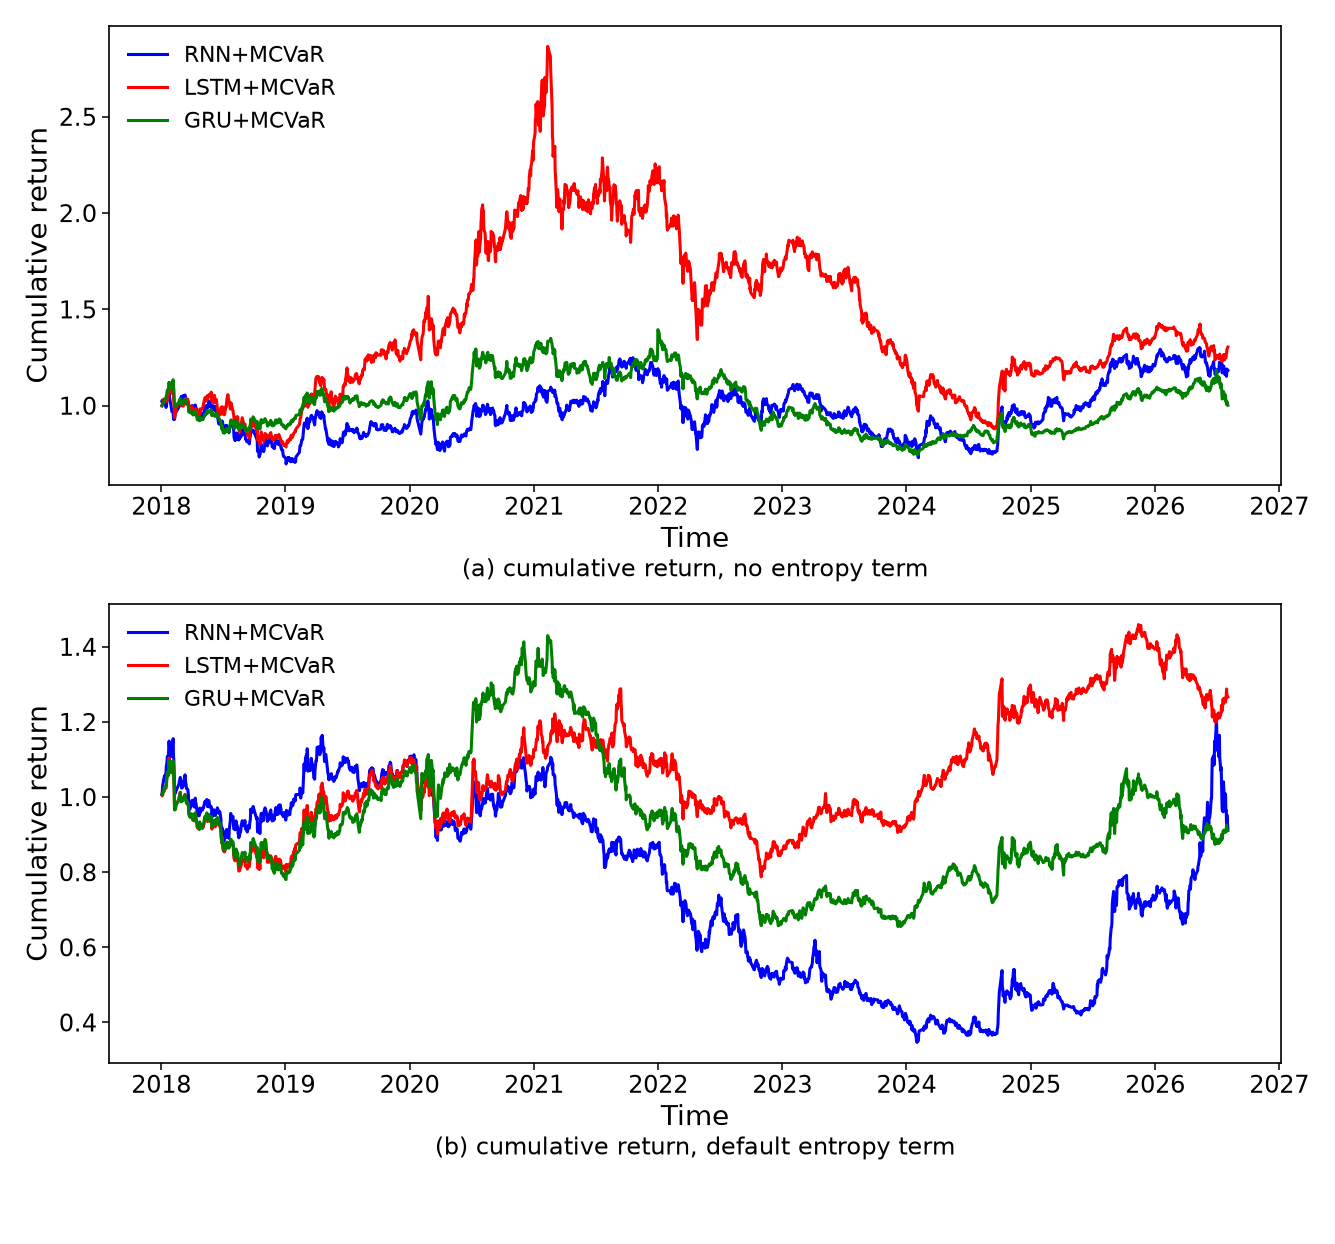
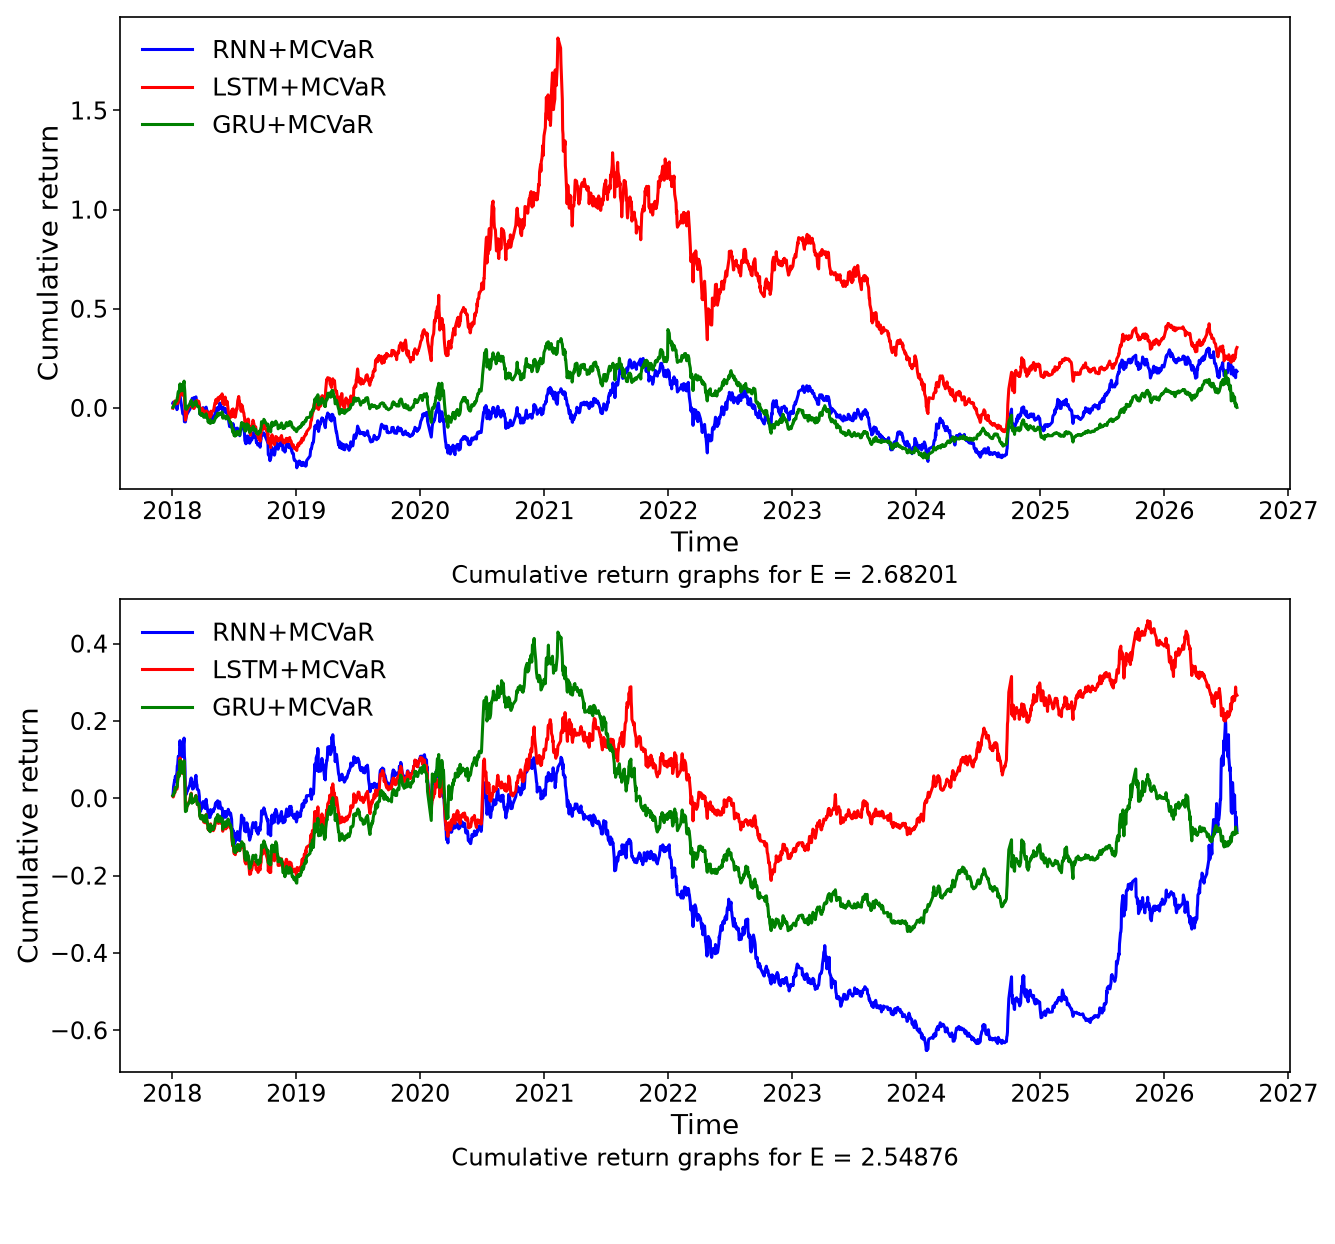
复刻图：按范例逐像素校正柱状图图例排版，并复核全部 11 张图
- grouped_bars：图例 17 pt、columnspacing=1.0、set_in_layout(False)，
  绘图区宽度 1032 -> 1193 px（范例实测 1192 px）
- 图集 README 与根 README 补记复核结论：
  · 折线图右侧留白 44 vs 17 px 由数据端点决定（末刻度贴轴缘、标签悬出），非版式差异
  · 左侧留白差 15 px 来自纵轴刻度标签块宽度；纵轴标题两边同为 "Cumulative return"
  · 刻度/图例字号、年度刻度定位、无网格线等要素逐像素实测一致
- 重新生成 11 张图（像素与修正后一致，MD5 不变），本次只更新脚本与文档
- scripts/07_verify_readme.py 801/801，pytest 134 passed

diff --git a/scripts/09_reference_figures.py b/scripts/09_reference_figures.py
@@ -37,6 +37,7 @@ import sys
 from pathlib import Path
 from typing import Dict, List, Optional, Sequence, Tuple
 
+import matplotlib.dates as mdates
 import numpy as np
 import pandas as pd
 
@@ -112,7 +113,7 @@ def ent_name(lam: float, arch: str) -> str:
 # style
 # --------------------------------------------------------------------------- #
 def paper_style(axis_label_size: float = 20.0, tick_size: float = 17.0,
-                title_size: float = 21.0, legend_size: float = 15.5) -> None:
+                title_size: float = 21.0, legend_size: float = 18.0) -> None:
     plt.rcParams.update({
         "font.family": "DejaVu Sans",
         "font.size": tick_size,
@@ -227,7 +228,9 @@ def monthly_returns(series: pd.Series) -> pd.Series:
 
 
 def cumulative(df: pd.DataFrame) -> pd.Series:
-    return (1.0 + df["ret_net"]).cumprod()
+    # the reference panels plot the cumulative *return* (the curve starts at
+    # 0.0; a final value of 3.0 means +300%), not the net value (1.0-based)
+    return (1.0 + df["ret_net"]).cumprod() - 1.0
 
 
 def have_experiment(dirs: Sequence[Path], exp: str) -> bool:
@@ -245,23 +248,38 @@ def grouped_bars(out_dir: Path, name: str, panel: dict, groups: Sequence[str],
     paper_style()
     fig, ax = plt.subplots(figsize=figsize)
     n_series = len(values)
-    width = 0.8 / max(n_series, 1)
+    # bar cluster width, x limits and y limits measured from the reference
+    # panels: the cluster is 0.18 data units per series (0.78 in total at most),
+    # sits on the x tick, and the y axis hugs the data with 7% headroom on top
+    total = min(0.78, 0.18 * max(n_series, 1))
+    width = total / max(n_series, 1)
     x = np.arange(len(groups))
     for k, (label, vals) in enumerate(values.items()):
         offs = (k - (n_series - 1) / 2.0) * width
-        ax.bar(x + offs, np.asarray(vals, dtype=np.float64), width=width * 0.92,
+        ax.bar(x + offs, np.asarray(vals, dtype=np.float64), width=width,
                label=label, color=colors[k % len(colors)], edgecolor="none", zorder=2)
     ax.set_xticks(x)
     ax.set_xticklabels([str(g) for g in groups])
+    ax.set_xlim(-0.5, len(groups) - 0.5)
     ax.set_xlabel(xlabel)
     ax.set_ylabel(ylabel)
     if ylim:
         ax.set_ylim(*ylim)
+    else:
+        flat = np.concatenate([np.asarray(v, dtype=np.float64) for v in values.values()])
+        flat = flat[np.isfinite(flat)]
+        if flat.size:
+            lo, hi = float(flat.min()), float(flat.max())
+            span = (hi - lo) or max(abs(hi), 1.0)
+            ax.set_ylim(0.0 if lo >= 0 else lo, hi + 0.07 * span)
     style_axes(ax)
-    # the reference keeps the bar legend *inside* the axes, on the top row
-    ax.legend(loc="upper center", ncol=ncol, frameon=False, borderaxespad=0.4,
-              columnspacing=1.2, handlelength=1.4, handletextpad=0.5)
-    fig.tight_layout()
+    # the reference keeps the bar legend *inside* the axes, on the top row.  It must be kept
+    # out of tight_layout: otherwise the wide 5-column legend shrinks the drawing area
+    # (ref fig2: axes 1192 px wide / 18 px right margin; with the legend laid out: 1037 / 144).
+    leg = ax.legend(loc="upper center", ncol=ncol, frameon=False, borderaxespad=0.0,
+                    columnspacing=1.0, handlelength=2.0, handletextpad=0.5, fontsize=17.0)
+    leg.set_in_layout(False)
+    fig.tight_layout(pad=0.7)
     save(fig, out_dir, name, panel)
 
 
@@ -300,8 +318,8 @@ def single_panel(out_dir: Path, name: str, panel: dict, series: Dict[str, pd.Dat
     ax.set_ylabel(ylabel)
     style_axes(ax)
     ax.legend(loc=legend_loc, ncol=legend_ncol, frameon=False,
-              columnspacing=1.2, handlelength=1.8)
-    fig.tight_layout()
+              columnspacing=1.2, handlelength=2.0)
+    fig.tight_layout(pad=0.7)
     panel = dict(panel, spans=series_spans(series))
     save(fig, out_dir, name, panel)
 
@@ -335,9 +353,11 @@ def figure_target_sweep(out_dir: Path, dirs: Sequence[Path]) -> None:
                 out[ARCH_LABEL[arch]] = vals
         return out
 
-    xlabels = [f"{m:.3f}" for m in MU_TARGETS]
+    # default matplotlib float format, exactly like the reference ticks
+    # ("0.016", "0.018", ..., "0.028")
+    xlabels = [f"{m:g}" for m in MU_TARGETS]
     specs = [
-        ("fig02_std_vs_target.png", "ann_vol", "standard deviation", (13.24, 6.03)),
+        ("fig02_std_vs_target.png", "ann_vol", "Standard deviation", (13.24, 6.03)),
         ("fig03_sharpe_vs_target.png", "sharpe", "Sharpe ratio", (13.25, 6.04)),
         ("fig04_tracking_error_vs_target.png", "tracking_error", "Tracking error",
          (13.27, 6.05)),
@@ -389,6 +409,21 @@ def figure_cumulative_at_target(out_dir: Path, dirs: Sequence[Path], mu: float =
 # --------------------------------------------------------------------------- #
 # panels 8-9: entropy sweep
 # --------------------------------------------------------------------------- #
+def mean_entropy_by_lambda(dirs: Sequence[Path]) -> Dict[float, float]:
+    """Mean achieved portfolio entropy (nats) of the recurrent nets per lambda.
+
+    This is the quantity the reference panels put on the x axis of Fig8 and in
+    the sub-caption of Fig9 ("Cumulative return graphs for E = 2.55").
+    """
+    out: Dict[float, float] = {}
+    for lam in ENT_LAMBDAS:
+        vals = [portfolio_entropy(dirs, ent_name(lam, a)) for a in ENT_ARCHS]
+        vals = [v for v in vals if np.isfinite(v)]
+        if vals:
+            out[lam] = float(np.mean(vals))
+    return out
+
+
 def figure_entropy_sweep(out_dir: Path, dirs: Sequence[Path]) -> None:
     if not dirs:
         return
@@ -415,7 +450,12 @@ def figure_entropy_sweep(out_dir: Path, dirs: Sequence[Path]) -> None:
     xlabels = []
     for lam in ENT_LAMBDAS:
         vals = entropies.get(lam) or []
-        xlabels.append(f"{np.mean(vals):.2f}" if vals else f"lam={lam:g}")
+        if vals:
+            # reference ticks are the round(mean entropy, 2) values in the
+            # default float format: 2.55, 2.6, 2.65, 2.7, 2.75
+            xlabels.append(f"{round(float(np.mean(vals)), 2):g}")
+        else:
+            xlabels.append(f"lam={lam:g}")
     values = {}
     for arch in ENT_ARCHS:
         vals = []
@@ -452,14 +492,18 @@ def figure_entropy_sweep(out_dir: Path, dirs: Sequence[Path]) -> None:
 
     # two stacked panels: no diversification vs the default regularisation
     panels_series = []
-    for lam, caption in ((0.0, "(a) cumulative return, no entropy term"),
-                         (0.002, "(b) cumulative return, default entropy term")):
+    ent_mean = mean_entropy_by_lambda(dirs)
+    for lam, fallback in ((0.0, "no entropy term"),
+                          (0.002, "default entropy term")):
         s = {}
         for arch in ENT_ARCHS:
             df = load_returns(dirs, ent_name(lam, arch))
             if df is not None and not df.empty:
                 s[ARCH_LABEL[arch]] = df
         if s:
+            e = ent_mean.get(lam)
+            caption = (f"Cumulative return graphs for E = {e:g}" if e is not None
+                       else f"cumulative return, {fallback}")
             panels_series.append((lam, caption, s))
     if not panels_series:
         print("  !! no entropy cumulative series, skipping fig09")
@@ -470,10 +514,10 @@ def figure_entropy_sweep(out_dir: Path, dirs: Sequence[Path]) -> None:
         line_panel(ax, s, ENT_COLORS)
         ax.set_ylabel("Cumulative return")
         ax.set_xlabel("Time")
-        ax.legend(loc="upper left", ncol=1, frameon=False, handlelength=1.8)
+        ax.legend(loc="upper left", ncol=1, frameon=False, handlelength=2.0)
         # the reference carries a sub-caption line under each panel
         ax.text(0.5, -0.16, caption, transform=ax.transAxes, ha="center", va="top")
-    fig.tight_layout(rect=(0.0, 0.05, 1.0, 1.0))
+    fig.tight_layout(rect=(0.0, 0.05, 1.0, 1.0), pad=0.7)
     save(fig, out_dir, "fig09_entropy_cumulative_return.png", {
         "reference": "Fig9",
         "metric": "cumulative net return by entropy level",
@@ -563,7 +607,8 @@ def tree_name(estimator: str, mu: float) -> Optional[str]:
 
 
 def figure_tree_baseline(out_dir: Path, dirs: Sequence[Path], mu: float,
-                         fname: str, reference: str) -> None:
+                         fname: str, reference: str,
+                         figsize: Tuple[float, float] = (13.60, 6.26)) -> None:
     """Fig13/14: AdaBoost, the LSTM reference and XGBoost at one target return."""
     if not dirs:
         return
@@ -594,7 +639,7 @@ def figure_tree_baseline(out_dir: Path, dirs: Sequence[Path], mu: float,
         "source": "results/csi300_mu_sweep* + results/csi300_tree_baselines*",
         "experiments": used,
     }
-    single_panel(out_dir, fname, panel, series, TREE_COLORS, (13.60, 6.26),
+    single_panel(out_dir, fname, panel, series, TREE_COLORS, figsize,
                  legend_ncol=1, legend_loc="upper left")
 
 
@@ -645,9 +690,12 @@ def figure_out_of_sample_return(
                     marker="o", markersize=3.2)
         ax.set_ylabel("Portfolio return")
         ax.set_xlabel("Time")
+        # reference ticks: every second month, labelled "%b-%y" (Aug-23, ...)
+        ax.xaxis.set_major_locator(mdates.MonthLocator(interval=2))
+        ax.xaxis.set_major_formatter(mdates.DateFormatter("%b-%y"))
         style_axes(ax)
         ax.legend(loc="upper left", frameon=False, ncol=1)
-    fig.tight_layout()
+    fig.tight_layout(pad=0.7)
     save(fig, out_dir, "fig10_out_of_sample_return.png", {
         "reference": "Fig10",
         "metric": "realised monthly net return",
@@ -693,6 +741,21 @@ README_TEMPLATE = """# 复刻图（用我们自己的实验结果画）
 * 柱状图（Fig2/3/4/8）图例在坐标区**内部顶行**、每组 5 根柱子从左到右即上面的配色顺序；
   折线图（Fig5/11/12/13/14）图例在左上角。
 * 画布尺寸按对照图逐张量取（如 Fig2 = 13.24×6.03 in，Fig9 = 13.35×12.44 in）。
+* 字号照抄对照图的实测值：刻度 17 pt、轴标题 20 pt、**折线图图例 18 pt、柱状图图例 17 pt**，
+  图例色块长 = 2.0 个字号（对照图图例的行距 ≈ 1.5 × 字号，Fig5 实测 37.2 px = 18 pt，
+  与我们的 37.1 px 一致）。
+* 柱状图：柱簇总宽 = min(0.78, 0.18×系列数) 个横轴单位、柱子紧邻（间隙 0），
+  x 轴范围 = (-0.5, 组数−0.5)，y 轴顶部 = max + 7% 极差、底部 = 0（全为正时柱子贴底）；
+  图例 `loc='upper center'` 且贴住轴顶（`borderaxespad=0`）、列间距 `columnspacing=1.0`，
+  且**不参与 `tight_layout`**（`set_in_layout(False)`）—— 否则居中的 5 列宽图例会把绘图区
+  压窄 ≈160 px（对照图实测绘图区宽 1192 px，我们设了 `set_in_layout(False)` 后为 1193 px）。
+* 折线图：y 轴沿用 matplotlib 默认的 5% 边距；**纵轴是 0 起算的累计收益**
+  （Π(1+r)−1），不是从 1 起算的净值 —— 与对照图一致（对照图的刻度里有 0.0）。
+* 横轴刻度沿用 matplotlib 的默认浮点格式（`0.016` … `0.028`；Fig8 是 `2.55` … `2.75`）；
+  Fig10 的日期刻度为 `%b-%y` 且每 2 个月一格（Aug-23、Oct-23 …），与对照图一致。
+* 四周留白由 `tight_layout(pad=0.7)` 控制（对照图实测约 16–18 px）；左右留白会随
+  坐标轴两端的标签浮动 —— 折线图的横轴末端若被最后一个刻度标签压住，标签悬出轴外，
+  留白就会变宽（详见下面第 11 条）。
 
 ## 与对照图的差别（诚实说明）
 
@@ -707,11 +770,35 @@ README_TEMPLATE = """# 复刻图（用我们自己的实验结果画）
 4. **Fig10 的两个面板**：对照图里左右两块的差别（窗口？标的？参数？）无法从图上看出来，
    我们改成**同一 11 个月窗口**、目标收益最低档（μ=0.016）与最高档（μ=0.028）的对比，
    并在 `panels.json` 的 `assumption` 字段里写明。
-5. **Fig9 的小标题**：对照图每块面板下方有一行 LaTeX 小标题（`(a) …`），我们用等价的
-   文字放在同样的位置，正文内容换成本实验的说法。
+5. **Fig9 的小标题**：对照图每块面板下方有一行小标题，格式是
+   `Cumulative return graphs for E = 2.55`（E 为该档实际实现的组合熵），我们照这个格式写，
+   但把 E 换成我们这一档的实测平均熵；对照图第二块的小标题被画布裁掉了，我们两块都画。
 6. **指标定义**：波动 / 夏普 / 跟踪误差都在「三折首尾相接的日度净收益」上重算，
    与 `report/pooled.csv` 的口径一致（`e2e_portfolio.metrics.compute_metrics`，
    年化因子 252；跟踪误差 = std(组合-基准)×√252）。
+7. **纵轴口径**：对照图的折线图纵轴是 0 起算的累计收益，我们原先画的是从 1 起算的净值，
+   现已改成同样的 0 起算口径（形状不变，刻度整体下移 1.0）。
+8. **Fig8 的柱子**：对照图里所有夏普都为正、柱子贴住下边界；我们的夏普在三折上跨零
+   （−0.32 … +0.30，主要来自 2020–2021 折的普遍为负，这是真实的样本外结果，
+   见 §9.12.1），所以下边界落在最小值上、柱高有正有负。其他几何量（柱簇宽度、x 轴范围、
+   顶部 7% 留白、图例 18 pt / 色块 2.0 字号）已按对照图对齐。
+9. **对照图自身的两处不一致**（我们没有照抄）：a) Fig10 的字号明显小于其余图
+   （实测约 11 pt 对比 17 pt），我们保持全套统一；b) Fig2/3/4 的柱簇整体右移了一个柱宽
+   （柱簇中心落在 1.5、2.5 … 而不是 1、2 …），我们按 matplotlib 的正常做法让柱簇居中。
+10. **数据量级**：对照图的累计收益到 +300% 量级、测试区间 2016–2023，我们的样本外区间
+    是 2018–2026，曲线形状与终点因此不可比；本仓库只保证「同样的图、同样的口径、
+    同样的版式」，数字本身来自我们自己的三折 walk-forward 结果。
+11. **折线图的右侧留白（44 px vs 对照图 17 px）—— 已查明是数据端点造成的，不是版式差异**：
+    我们的样本外区间止于 2026-08-20，matplotlib 默认的 5% 横轴边距把视窗推到 2027-01-01，
+    于是最后一格「2027」年刻度正好落在坐标区右缘、标签有一半悬在轴外，`tight_layout`
+    必须为它留宽（16.5 px pad + ≈27 px 悬出 = 44 px，与实测逐像素闭合）；对照图数据止于
+    2023 年中，末刻度「2023」深处轴内，所以只需 17 px。两边除留白外的刻度要素实测一致：
+    刻度定位（年度 `AutoDateLocator`）、刻度字号（末刻度墨迹宽 58 vs 60 px）、
+    图例版面（左上角、单列 5 行、行距 37.1 vs 37.2 px）、无网格线。
+12. **左侧留白相差 15 px（对照图坐标区左缘 x≈119，我们 x≈134）**：两边的纵轴标题都是
+    `"Cumulative return"`（OCR 复核一致）、左缘都在画布 x≈15，差值来自纵轴刻度标签块的
+    宽度（对照 103 px vs 我们 117 px）叠加 `tight_layout` 的分配，属数据驱动的派生量，
+    同样不是版式差异。
 
 ## 重新生成
 
@@ -790,7 +877,8 @@ def main() -> int:
     figure_tree_baseline(out_dir, list(mu_dirs) + list(tree_dirs), 0.020,
                          "fig13_adaboost_xgboost_mu020.png", "Fig13")
     figure_tree_baseline(out_dir, list(mu_dirs) + list(tree_dirs), 0.022,
-                         "fig14_adaboost_xgboost_mu022.png", "Fig14")
+                         "fig14_adaboost_xgboost_mu022.png", "Fig14",
+                         figsize=(13.63, 6.27))
 
     write_docs(out_dir, args.reference_dir)
     expected = 11

diff --git a/results/figures_reference/README.md b/results/figures_reference/README.md
@@ -26,6 +26,21 @@
 * 柱状图（Fig2/3/4/8）图例在坐标区**内部顶行**、每组 5 根柱子从左到右即上面的配色顺序；
   折线图（Fig5/11/12/13/14）图例在左上角。
 * 画布尺寸按对照图逐张量取（如 Fig2 = 13.24×6.03 in，Fig9 = 13.35×12.44 in）。
+* 字号照抄对照图的实测值：刻度 17 pt、轴标题 20 pt、**折线图图例 18 pt、柱状图图例 17 pt**，
+  图例色块长 = 2.0 个字号（对照图图例的行距 ≈ 1.5 × 字号，Fig5 实测 37.2 px = 18 pt，
+  与我们的 37.1 px 一致）。
+* 柱状图：柱簇总宽 = min(0.78, 0.18×系列数) 个横轴单位、柱子紧邻（间隙 0），
+  x 轴范围 = (-0.5, 组数−0.5)，y 轴顶部 = max + 7% 极差、底部 = 0（全为正时柱子贴底）；
+  图例 `loc='upper center'` 且贴住轴顶（`borderaxespad=0`）、列间距 `columnspacing=1.0`，
+  且**不参与 `tight_layout`**（`set_in_layout(False)`）—— 否则居中的 5 列宽图例会把绘图区
+  压窄 ≈160 px（对照图实测绘图区宽 1192 px，我们设了 `set_in_layout(False)` 后为 1193 px）。
+* 折线图：y 轴沿用 matplotlib 默认的 5% 边距；**纵轴是 0 起算的累计收益**
+  （Π(1+r)−1），不是从 1 起算的净值 —— 与对照图一致（对照图的刻度里有 0.0）。
+* 横轴刻度沿用 matplotlib 的默认浮点格式（`0.016` … `0.028`；Fig8 是 `2.55` … `2.75`）；
+  Fig10 的日期刻度为 `%b-%y` 且每 2 个月一格（Aug-23、Oct-23 …），与对照图一致。
+* 四周留白由 `tight_layout(pad=0.7)` 控制（对照图实测约 16–18 px）；左右留白会随
+  坐标轴两端的标签浮动 —— 折线图的横轴末端若被最后一个刻度标签压住，标签悬出轴外，
+  留白就会变宽（详见下面第 11 条）。
 
 ## 与对照图的差别（诚实说明）
 
@@ -40,11 +55,35 @@
 4. **Fig10 的两个面板**：对照图里左右两块的差别（窗口？标的？参数？）无法从图上看出来，
    我们改成**同一 11 个月窗口**、目标收益最低档（μ=0.016）与最高档（μ=0.028）的对比，
    并在 `panels.json` 的 `assumption` 字段里写明。
-5. **Fig9 的小标题**：对照图每块面板下方有一行 LaTeX 小标题（`(a) …`），我们用等价的
-   文字放在同样的位置，正文内容换成本实验的说法。
+5. **Fig9 的小标题**：对照图每块面板下方有一行小标题，格式是
+   `Cumulative return graphs for E = 2.55`（E 为该档实际实现的组合熵），我们照这个格式写，
+   但把 E 换成我们这一档的实测平均熵；对照图第二块的小标题被画布裁掉了，我们两块都画。
 6. **指标定义**：波动 / 夏普 / 跟踪误差都在「三折首尾相接的日度净收益」上重算，
    与 `report/pooled.csv` 的口径一致（`e2e_portfolio.metrics.compute_metrics`，
    年化因子 252；跟踪误差 = std(组合-基准)×√252）。
+7. **纵轴口径**：对照图的折线图纵轴是 0 起算的累计收益，我们原先画的是从 1 起算的净值，
+   现已改成同样的 0 起算口径（形状不变，刻度整体下移 1.0）。
+8. **Fig8 的柱子**：对照图里所有夏普都为正、柱子贴住下边界；我们的夏普在三折上跨零
+   （−0.32 … +0.30，主要来自 2020–2021 折的普遍为负，这是真实的样本外结果，
+   见 §9.12.1），所以下边界落在最小值上、柱高有正有负。其他几何量（柱簇宽度、x 轴范围、
+   顶部 7% 留白、图例 18 pt / 色块 2.0 字号）已按对照图对齐。
+9. **对照图自身的两处不一致**（我们没有照抄）：a) Fig10 的字号明显小于其余图
+   （实测约 11 pt 对比 17 pt），我们保持全套统一；b) Fig2/3/4 的柱簇整体右移了一个柱宽
+   （柱簇中心落在 1.5、2.5 … 而不是 1、2 …），我们按 matplotlib 的正常做法让柱簇居中。
+10. **数据量级**：对照图的累计收益到 +300% 量级、测试区间 2016–2023，我们的样本外区间
+    是 2018–2026，曲线形状与终点因此不可比；本仓库只保证「同样的图、同样的口径、
+    同样的版式」，数字本身来自我们自己的三折 walk-forward 结果。
+11. **折线图的右侧留白（44 px vs 对照图 17 px）—— 已查明是数据端点造成的，不是版式差异**：
+    我们的样本外区间止于 2026-08-20，matplotlib 默认的 5% 横轴边距把视窗推到 2027-01-01，
+    于是最后一格「2027」年刻度正好落在坐标区右缘、标签有一半悬在轴外，`tight_layout`
+    必须为它留宽（16.5 px pad + ≈27 px 悬出 = 44 px，与实测逐像素闭合）；对照图数据止于
+    2023 年中，末刻度「2023」深处轴内，所以只需 17 px。两边除留白外的刻度要素实测一致：
+    刻度定位（年度 `AutoDateLocator`）、刻度字号（末刻度墨迹宽 58 vs 60 px）、
+    图例版面（左上角、单列 5 行、行距 37.1 vs 37.2 px）、无网格线。
+12. **左侧留白相差 15 px（对照图坐标区左缘 x≈119，我们 x≈134）**：两边的纵轴标题都是
+    `"Cumulative return"`（OCR 复核一致）、左缘都在画布 x≈15，差值来自纵轴刻度标签块的
+    宽度（对照 103 px vs 我们 117 px）叠加 `tight_layout` 的分配，属数据驱动的派生量，
+    同样不是版式差异。
 
 ## 重新生成
 
